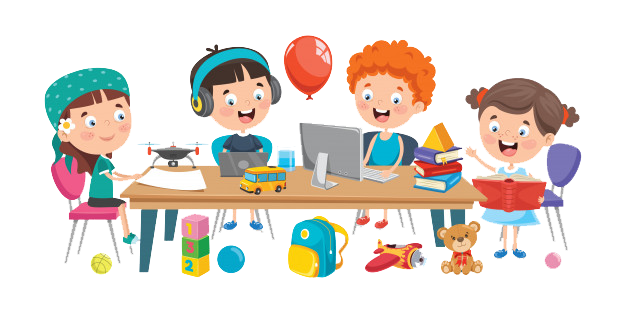
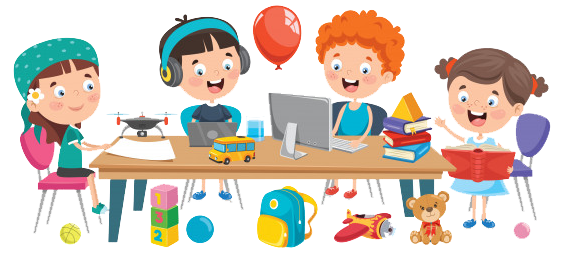
home page

diff --git a/client/src/pages/Home.js b/client/src/pages/Home.js
@@ -16,21 +16,26 @@ const theme = createMuiTheme({
 const useStyles = {
     horizontal: {
         marginTop: theme.spacing(8),
+        marginBottom: theme.spacing(8),
+     },
+     picture: {
+        
      }
 };
 
-class Login extends Component{
+class Home extends Component{
     
     render(){
         return (
             <div>
                 <NavBar/>
-                <Grid container  direction="row" align="center" className={this.props.classes.horizontal} >
-                <CalltoAction/>
-                <Grid item md={6} xs={12}>
+                <Grid container   direction="row" align="center" className={this.props.classes.horizontal} >
+                <CalltoAction />
+                <Grid item md={6} xs={12} maxWidth='100vw'>
                 <img 
                 src ={require("../images/kids_home_page.png").default}
-                alt = "Kids Learning" 
+                alt = "Kids Learning"  
+                width= '80%'
                 />
                 </Grid>
                 </Grid>
@@ -39,4 +44,4 @@ class Login extends Component{
     }
 }
 
-export default withStyles(useStyles)(Login);
+export default withStyles(useStyles)(Home);

diff --git a/client/src/components/Home/CalltoAction.js b/client/src/components/Home/CalltoAction.js
@@ -25,7 +25,7 @@ const theme = createMuiTheme({
 
 const useStyles = {
     button: {
-        margin: theme.spacing(2, 0, 0, 0),
+        margin: theme.spacing(2, 0, 5, 0),
         backgroundColor: theme.secondary.main,
         color: "white",
         width: '160px',
@@ -35,7 +35,7 @@ const useStyles = {
 
     },
     button1: {
-        margin: theme.spacing(2, 0, 0, 0.5),
+        margin: theme.spacing(2, 0, 5, 0.5),
         backgroundColor: theme.secondary.main,
         color: "white",
         width: '160px',
@@ -76,7 +76,7 @@ class LoginForm extends Component {
     render() {
         return (
             <ThemeProvider theme={theme}>
-                <Grid item md={6} xs={24} className={this.props.classes.calltoaction} component="main" maxWidth="xs">
+                <Grid item md={6} xs={12} className={this.props.classes.calltoaction} component="main" maxWidth="xs">
                     
                     <h1>Ignite the passion for CS. <br></br>
                         Uplift your community.</h1>

diff --git a/client/src/pages/About.js b/client/src/pages/About.js
@@ -50,9 +50,9 @@ class About extends Component{
 
     render(){
         return (
-        <div className={this.props.classes.all}>
-               <NavBar/>
-            <Fragment>
+        <div >
+            <NavBar/>
+            <Fragment className={this.props.classes.all}>
                 <Grid
             container
             direction="column"
